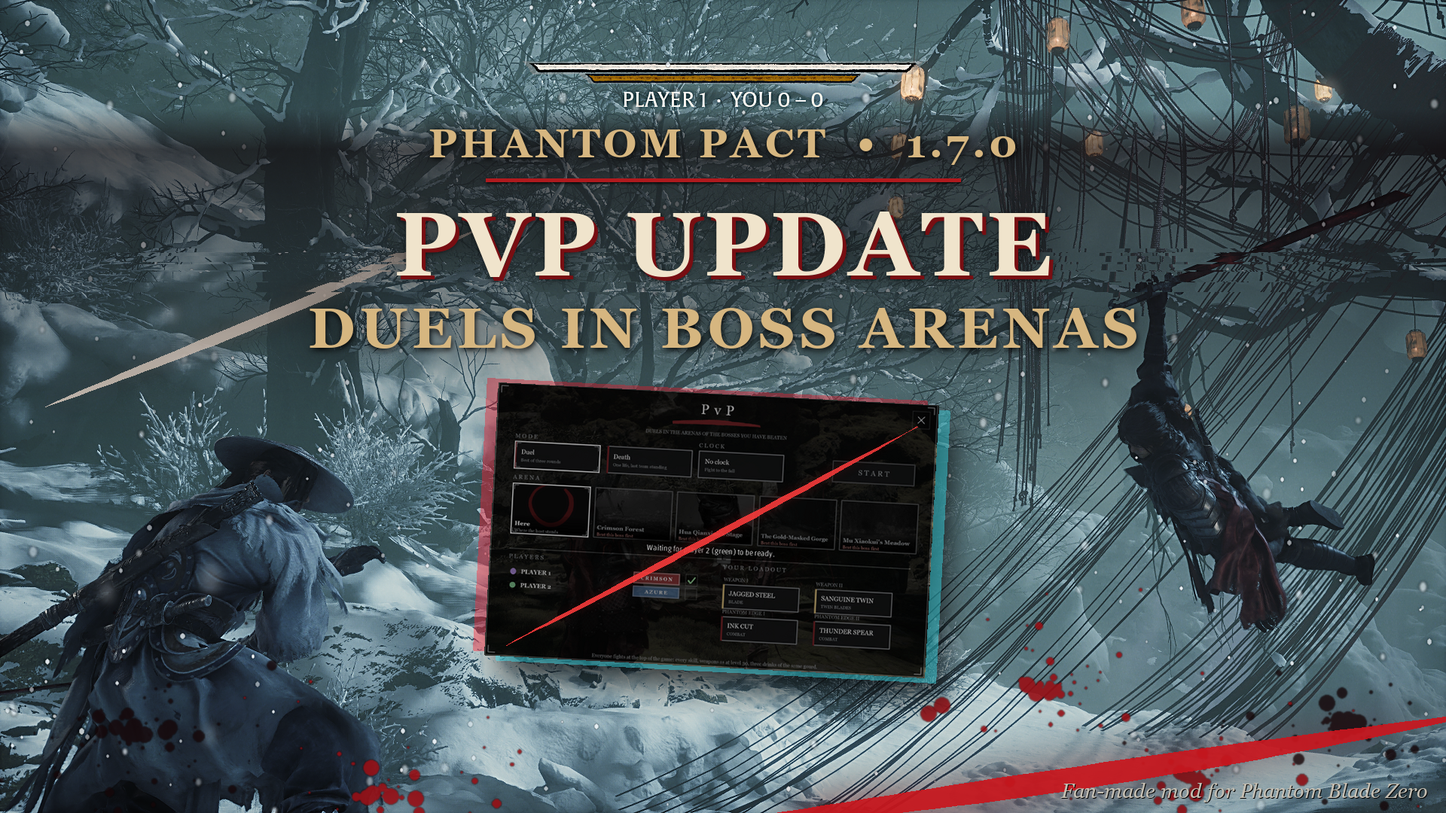
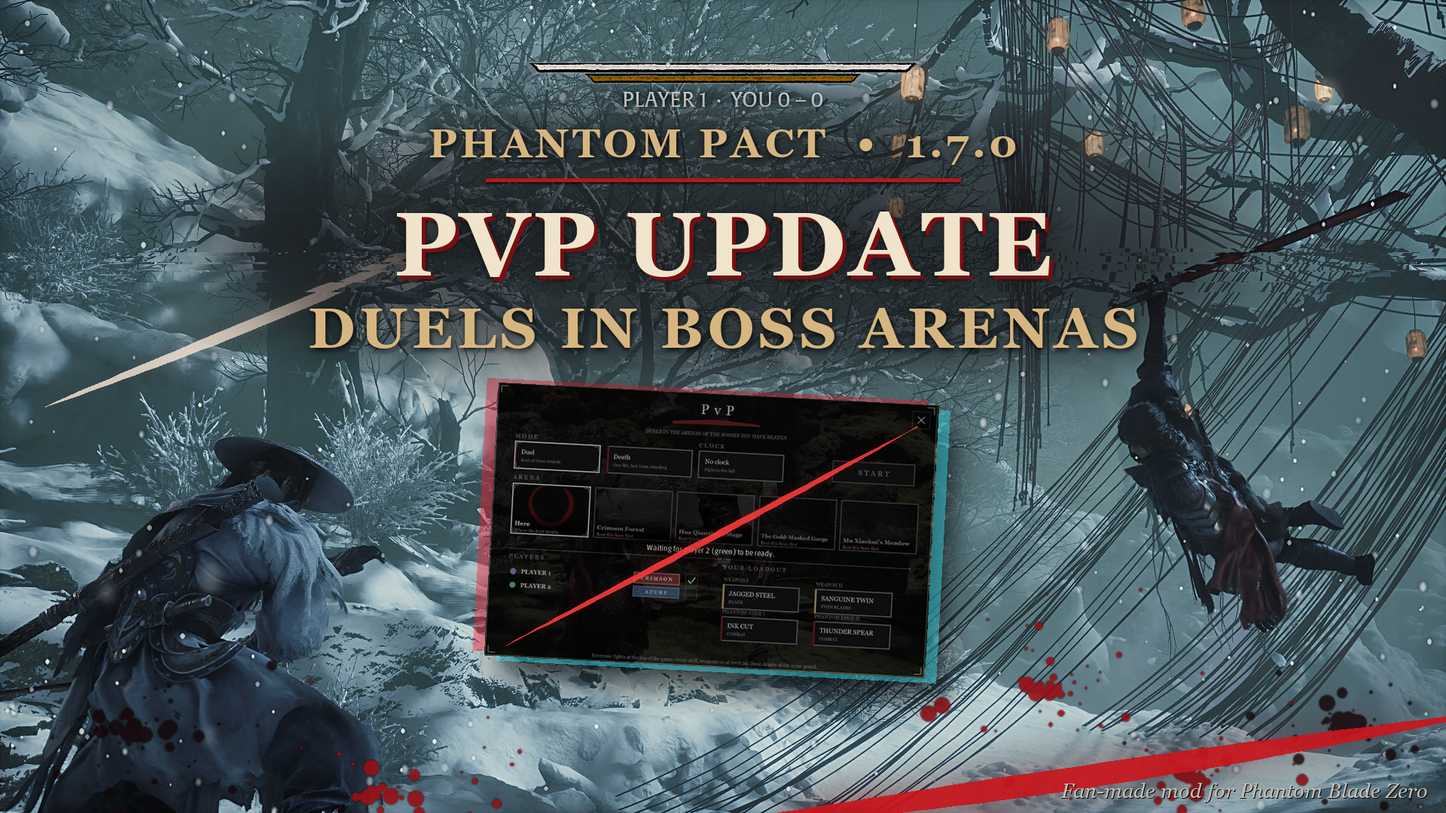
1.7.0 thumbnail: the dark shade only behind the lettering, not across the whole width
The user, of 73d942a: "the black thing is stretching fully can we make it less". 1.6.5's darkening at the top ran the
full width and, on this bright snow, read as a black strip under the foe's bar from edge to edge (rows under the bar
about half as bright as the shot). Now a soft oval round the title, blurred wide: the corners keep their snow and trees
(the left edge darkened 12 instead of 49), and the lettering still reads.

diff --git a/art/make_pvp_thumb.py b/art/make_pvp_thumb.py
@@ -25,6 +25,7 @@ SHOTS = os.path.join(HERE, "screenshots")
 SRC = os.path.join(SHOTS, "pvp-update-1.7.0.png")           # the game's screen, the foe's bar on it
 PAGE = os.path.join(SHOTS, "pvp-update-1.7.0-page.png")     # the F6 page ("Waiting for player 2 (green) to be ready.")
 OUT = os.path.join(HERE, "thumbnail", "PhantomPact-1.7.0-thumbnail{}.png")
+SHADE = 150             # the dark pool behind the lettering at its middle (of 255)
 
 
 def grade(img):
@@ -115,14 +116,15 @@ def make_thumb(W):
     img = Image.alpha_composite(img, slash((W, H), (px + 20 * k, py + rot.height - 30 * k),
                                            (px + rot.width - 20 * k, py + 40 * k), 4 * k, (255, 60, 60, 220)))
     img = glitch_bands(img, rng, 9, keep=((262 * k, H),))
-    # A soft darkening at the top, so the lettering reads on the bright fog (not over the foe's bar at the very top).
-    shade = Image.new("L", (1, H))
-    for y in range(H):
-        yy = y / k
-        f = 0.0 if yy < 96 else min(1.0, (yy - 96) / 36) * max(0.0, 1 - (yy - 130) / (720 * 0.42)) ** 1.3
-        shade.putpixel((0, y), int(165 * min(1.0, f)))
+    # A soft dark pool behind the lettering alone, so it reads on the bright fog: an ellipse round the title, blurred wide.
+    # (1.6.5's band across the whole width, on this bright snow, read as a black strip edge to edge; the user: "the black
+    # thing is stretching fully".)
+    pool = Image.new("L", (W // 4, H // 4), 0)
+    cx4, cy4, rx, ry = W / 8, 212 * k / 4, 470 * k / 4, 118 * k / 4
+    ImageDraw.Draw(pool).ellipse((cx4 - rx, cy4 - ry, cx4 + rx, cy4 + ry), fill=SHADE)
+    pool = pool.filter(ImageFilter.GaussianBlur(34 * k / 4)).resize((W, H), Image.BILINEAR)
     dark = Image.new("RGBA", (W, H), (14, 6, 8, 255))
-    dark.putalpha(shade.resize((W, H)))
+    dark.putalpha(pool)
     img = Image.alpha_composite(img, dark)
     cx = W / 2
     # (Below the foe's bar and its name line, which end about y 96.)
